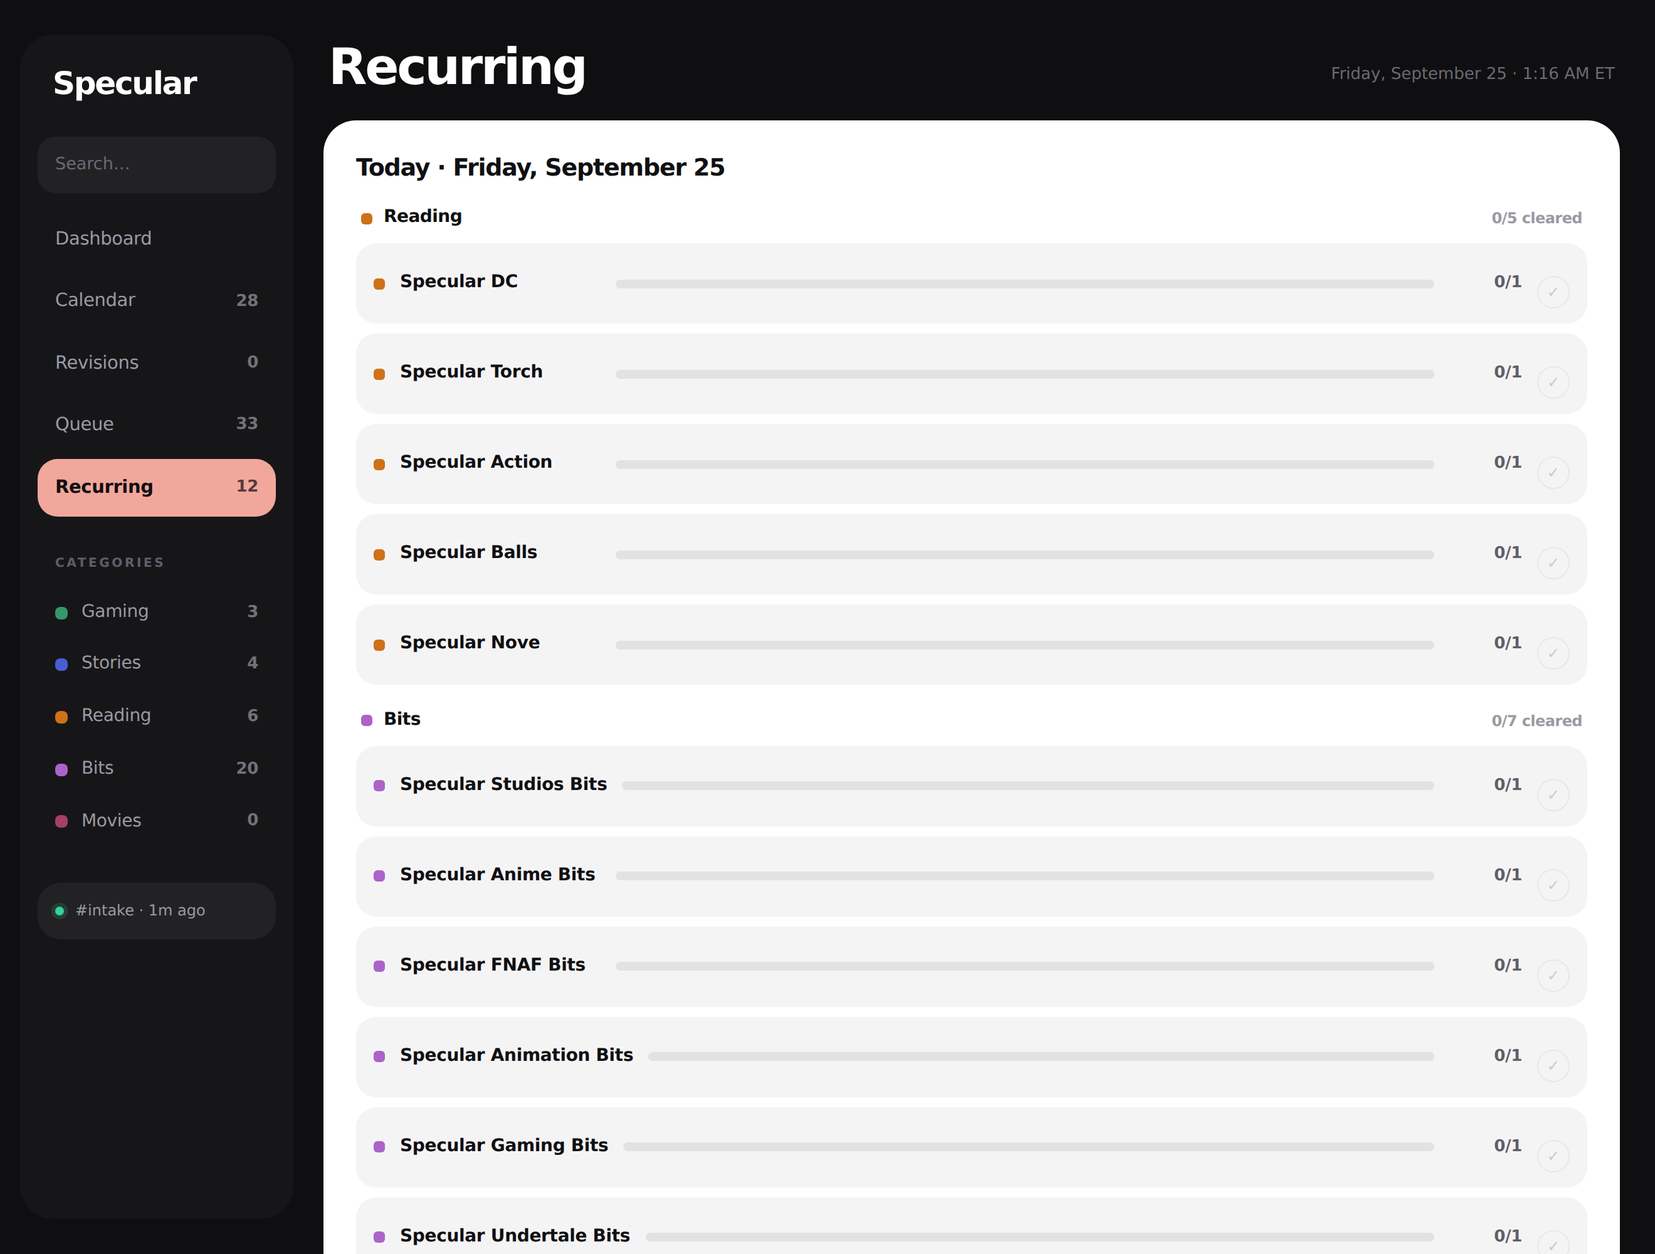
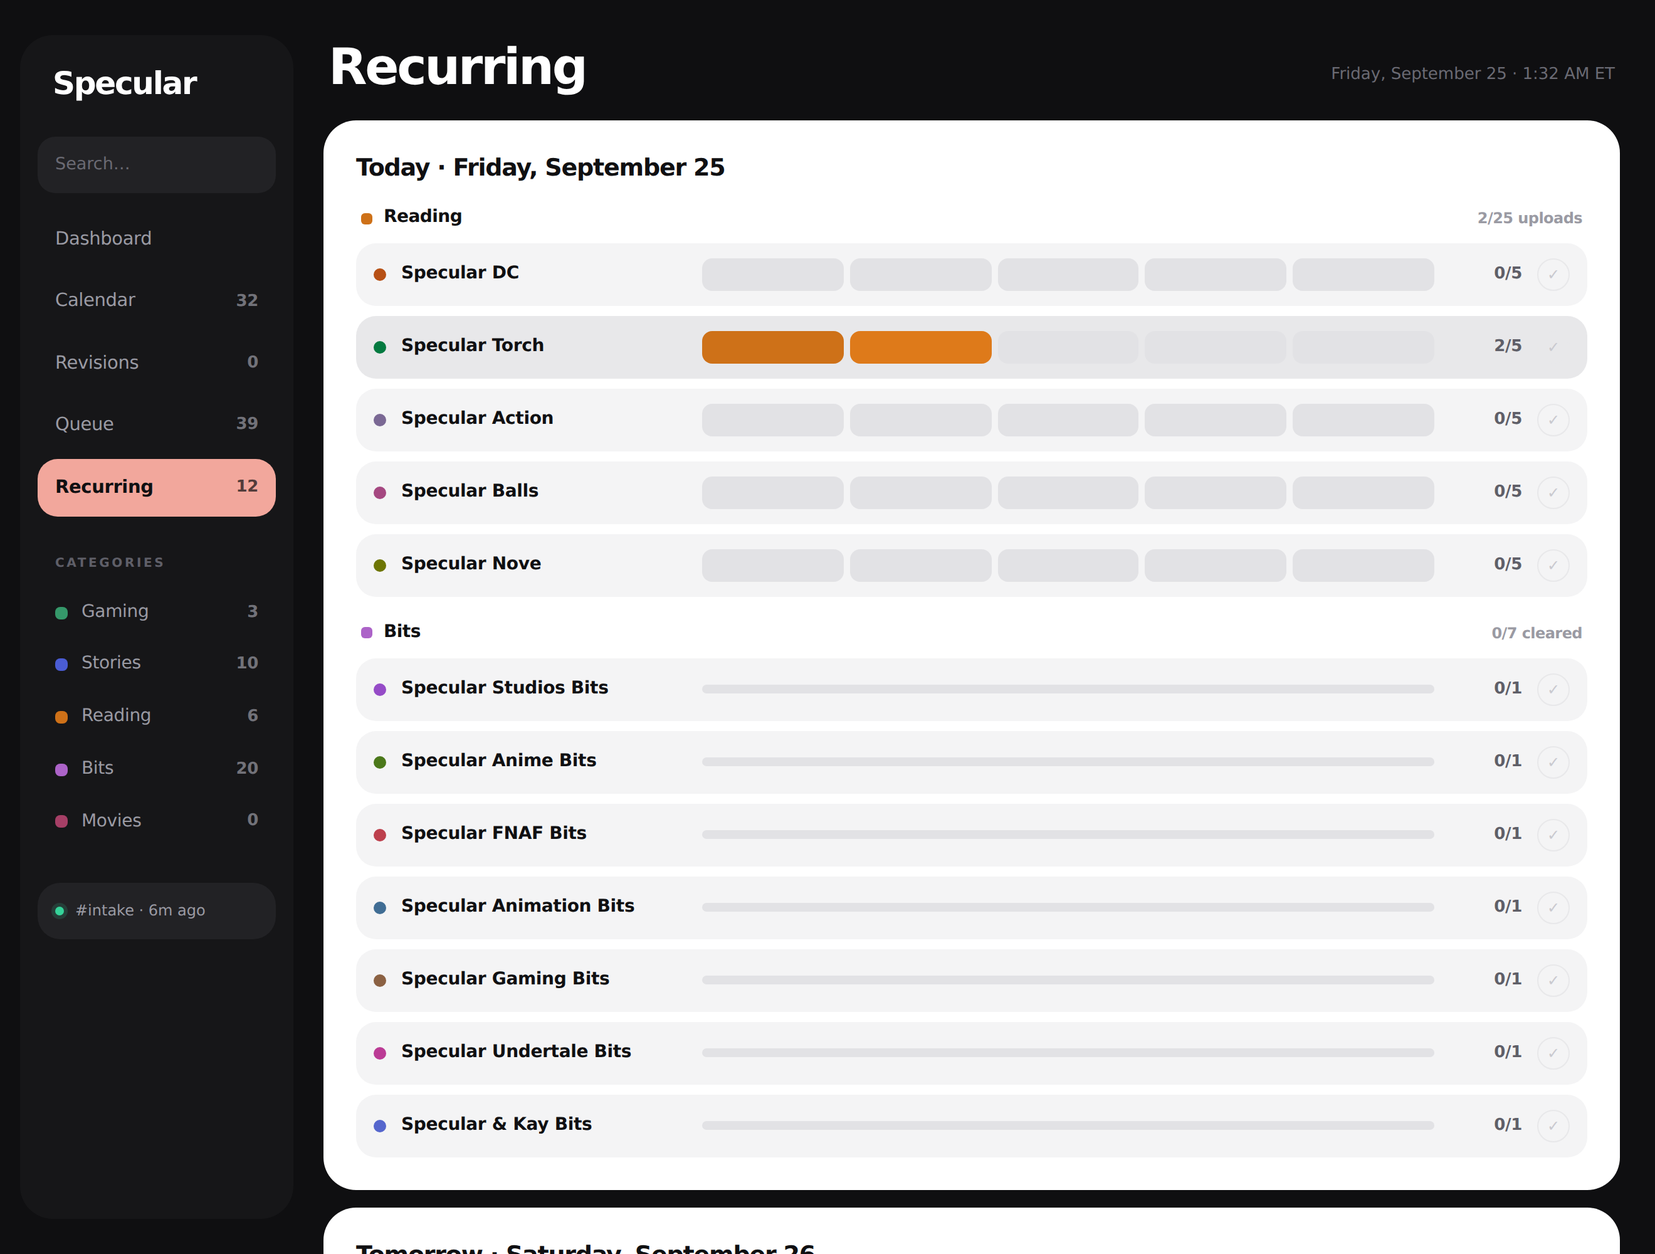
Reading channels count five uploads a day, tapped off one at a time
A reading channel's day is five uploads, not one job. Each keeps a single
batch — the page stays short, which was the point of one batch per channel —
but the batch now holds a target and a count, and its row is five segments
instead of a bar. Tap the third to mark three done; tap the last filled one
again to step back, so a mis-tap is one more tap to undo. Bits stay at one,
with their tick.

Reaching the target clears the batch, and that is what counts toward
"cleared this week": once per channel per day, not once per upload. Dropping
back below reopens it and takes the count back off. Verified in a browser:
3rd → 3/5, 3rd again → 2/5, 5th → cleared (cleared this week 2 → 3), 5th
again → 4/5 (→ 2). The group header, the digest and a batch's row in any list
all count in uploads — "2/25 uploads", "2/5 uploaded".

Clearing a batch by its tick, or a whole channel's day, sets its count to the
target; reopening a cleared one starts its count again rather than leaving it
open at 5/5. A migration gives existing batches their target — five for
reading, one for bits — and marks already-cleared ones full.

Also: buttons inside a Recurring row sat below its centre line because a
general `.panel form` margin reached them, and bars started at different
points because the name column was narrower than the longest channel name.

Claude-Session: https://claude.ai/code/session_01XDwzm3cFSuRZJqUM74mbz3

diff --git a/src/web/page.ts b/src/web/page.ts
@@ -401,7 +401,7 @@ button.clear.secondary:hover { background: var(--line); filter: none; }
   background: var(--sunk); color: var(--ink); font-size: 14px; letter-spacing: -0.012em;
 }
 .batch:hover { background: var(--line); }
-.batch .who { display: flex; align-items: center; gap: 12px; min-width: 180px; }
+.batch .who { display: flex; align-items: center; gap: 12px; min-width: 250px; }
 .batch .tick button { width: 26px; height: 26px; font-size: 12px; }
 .tick-space { width: 26px; flex: none; }
 .batch .dot { width: 10px; height: 10px; border-radius: 50%; background: var(--ch, var(--c)); flex: none; }
@@ -409,6 +409,17 @@ button.clear.secondary:hover { background: var(--line); filter: none; }
 .batch .bar {
   flex: 1; height: 7px; border-radius: 999px; background: #E2E2E5; overflow: hidden; min-width: 60px;
 }
+.pips { flex: 1; display: flex; gap: 5px; min-width: 120px; }
+.pips form { flex: 1; display: flex; }
+.pip {
+  flex: 1; height: 26px; border-radius: 8px; border: 0; cursor: pointer; padding: 0;
+  background: #E2E2E5; transition: background .12s ease;
+}
+.pip:hover { background: #D2D2D7; }
+.pip.on { background: var(--c); }
+.pip.on:hover { filter: brightness(1.08); }
+.batch.done .pip.on { background: var(--gm); }
+.row .meta .count { color: var(--ink2); font-weight: 600; }
 .batch .bar > span { display: block; height: 100%; background: var(--c); border-radius: 999px; }
 .batch .state {
   font-family: var(--display); font-weight: 700; font-size: 13px; color: var(--ink2);
@@ -432,10 +443,12 @@ button.clear.secondary:hover { background: var(--line); filter: none; }
 .batch-head .n { margin-left: auto; font-family: var(--ui); font-weight: 600; font-size: 12px; color: var(--ink3); padding-right: 4px; }
 .hint { color: var(--ink3); font-size: 12.5px; margin: 14px 0 0; max-width: 560px; line-height: 1.6; }
 .panel form { margin-top: 14px; }
+/* ...but not the buttons inside a batch row, which sit on its centre line. */
+.panel .batch form { margin-top: 0; }
 @media (max-width: 760px) {
   .batch { flex-wrap: wrap; gap: 8px 10px; }
   .batch .name { min-width: 0; flex: 1; }
-  .batch .bar { order: 3; flex-basis: 100%; }
+  .batch .bar, .batch .pips { order: 3; flex-basis: 100%; }
 }
 
 /* ── phone ─────────────────────────────────────────────────────────────────
@@ -659,6 +672,9 @@ function row(r: StoredRecord): string {
   if (r.version) meta.push(`v${r.version}`);
   if (r.wordCount) meta.push(`${r.wordCount.toLocaleString()} words`);
   if (r.airDate) meta.push(airs(r));
+  if (r.batchTarget && r.batchTarget > 1) {
+    meta.push(`<span class="count">${r.status === "done" ? r.batchTarget : r.batchDone}/${r.batchTarget} uploaded</span>`);
+  }
   if (r.confidence < 0.7) meta.push(`<span class="warn">needs a look</span>`);
 
   const links = r.links.length
@@ -1445,11 +1461,35 @@ export function renderRecurring(
            </form>`
         : `<span class="tick-space"></span>`;
 
+    // A channel whose day is several uploads gets one segment per upload.
+    // Tapping the third marks three done; tapping the last filled one again
+    // steps back one, so a mis-tap is one more tap to undo.
+    const units = CHANNELS.find((ch) => ch.name === r.channel)?.recurring?.units ?? 1;
+    const progress =
+      units > 1 && date && r.total > 0
+        ? `<span class="pips" role="group" aria-label="${esc(r.channel)} uploads done">${Array.from(
+            { length: r.total },
+            (_, i) => {
+              const n = i + 1;
+              const filled = n <= r.done;
+              const target = n === r.done ? n - 1 : n;
+              return `<form method="post" action="/recurring/progress">
+                <input type="hidden" name="channel" value="${esc(r.channel)}">
+                <input type="hidden" name="date" value="${esc(date)}">
+                <input type="hidden" name="done" value="${target}">
+                <button class="pip${filled ? " on" : ""}"
+                  aria-label="${n === r.done ? `Undo — back to ${n - 1} of ${r.total}` : `${n} of ${r.total} done`}"
+                  title="${n === r.done ? `Back to ${n - 1}` : `${n} of ${r.total} done`}"></button>
+              </form>`;
+            },
+          ).join("")}</span>`
+        : `<span class="bar"><span style="width:${pct}%"></span></span>`;
+
     return `<div class="batch${r.total && r.done === r.total ? " done" : ""}" style="--c:${colourOf(categoryOf(r.channel))};--ch:${channelColour(r.channel)}">
       <a class="who" href="/channel/${encodeURIComponent(r.channel)}">
         <span class="dot"></span><span class="name">${esc(r.channel)}</span>
       </a>
-      <span class="bar"><span style="width:${pct}%"></span></span>
+      ${progress}
       <span class="state">${esc(state)}</span>
       ${clearAll}
     </div>`;
@@ -1469,10 +1509,14 @@ export function renderRecurring(
     CATEGORIES.filter((cat) => list_.some((r) => categoryOf(r.channel) === cat.id))
       .map((cat) => {
         const mine = list_.filter((r) => categoryOf(r.channel) === cat.id);
-        const done = mine.filter((r) => r.total && r.done === r.total).length;
+        const done = mine.reduce((n, r) => n + r.done, 0);
+        const total = mine.reduce((n, r) => n + r.total, 0);
+        const unit = mine.some((r) => (CHANNELS.find((ch) => ch.name === r.channel)?.recurring?.units ?? 1) > 1)
+          ? "uploads"
+          : "cleared";
         return `<div class="batch-group" style="--c:${cat.color}">
           <div class="batch-head"><span class="dot"></span>${esc(cat.label)}
-            <span class="n">${done}/${mine.length} cleared</span></div>
+            <span class="n">${done}/${total} ${unit}</span></div>
           <div class="batches">${mine.map((r) => line(r, date)).join("")}</div>
         </div>`;
       })

diff --git a/src/jobs/batches.ts b/src/jobs/batches.ts
@@ -60,8 +60,8 @@ export async function openBatchesFor(date = dateIn(ORG_TZ)): Promise<OpenResult>
       const { rowCount } = await pool.query(
         `INSERT INTO records (
            kind, category, channel, code, title, air_date, deadline, vo_source,
-           status, parsed_by, confidence, batch_no, source_message_id, raw_content
-         ) VALUES ($8, $9, $1, $2, $3, $4, $5, 'none', 'open', 'recurring', 1, $6, $7, '')
+           status, parsed_by, confidence, batch_no, source_message_id, raw_content, batch_target
+         ) VALUES ($8, $9, $1, $2, $3, $4, $5, 'none', 'open', 'recurring', 1, $6, $7, '', $10)
          ON CONFLICT (source_message_id) DO NOTHING`,
         [
           channel.name,
@@ -74,6 +74,7 @@ export async function openBatchesFor(date = dateIn(ORG_TZ)): Promise<OpenResult>
           // A batch takes its channel's category — Reading batches are Reading.
           channel.category === "bits" ? "bits" : "update",
           channel.category,
+          channel.recurring?.units ?? 1,
         ],
       );
 
@@ -95,16 +96,20 @@ export function tomorrow(): string {
   return d.toISOString().slice(0, 10);
 }
 
-/** What a day's batches currently look like, for the Recurring page. */
+/**
+ * What a day's batches look like, for the Recurring page — counted in uploads,
+ * so a reading channel reads 2/5 and a bits channel 0/1.
+ */
 export async function batchStatus(date: string): Promise<
   Array<{ channel: string; total: number; done: number; removed: number }>
 > {
   // A removed batch leaves the count entirely, so a channel whose only batch
-  // was removed reads "removed" rather than "0/1" waiting to be done.
+  // was removed reads "removed" rather than waiting to be done.
   const { rows } = await pool.query<{ channel: string; total: string; done: string; removed: string }>(
     `SELECT channel,
-            COUNT(*) FILTER (WHERE status <> 'removed') AS total,
-            COUNT(*) FILTER (WHERE status = 'done') AS done,
+            COALESCE(SUM(COALESCE(batch_target, 1)) FILTER (WHERE status <> 'removed'), 0) AS total,
+            COALESCE(SUM(CASE WHEN status = 'done' THEN COALESCE(batch_target, 1)
+                              WHEN status = 'open' THEN batch_done ELSE 0 END), 0) AS done,
             COUNT(*) FILTER (WHERE status = 'removed') AS removed
      FROM records
      WHERE batch_no IS NOT NULL AND air_date = $1
@@ -121,4 +126,25 @@ export async function batchStatus(date: string): Promise<
       removed: Number(row?.removed ?? 0),
     };
   });
+}
+
+/**
+ * Set how many of a channel's uploads are done that day. Reaching the target
+ * clears the batch — which is what counts toward "cleared this week"; dropping
+ * back below it reopens it.
+ */
+export async function setBatchProgress(channel: string, date: string, done: number): Promise<void> {
+  await pool.query(
+    `UPDATE records SET
+       batch_done = LEAST(GREATEST($3, 0), COALESCE(batch_target, 1)),
+       status = CASE WHEN $3 >= COALESCE(batch_target, 1) THEN 'done' ELSE 'open' END,
+       done_at = CASE WHEN $3 >= COALESCE(batch_target, 1) THEN COALESCE(done_at, now()) ELSE NULL END,
+       updated_at = now()
+     WHERE id = (
+       SELECT id FROM records
+       WHERE channel = $1 AND air_date = $2 AND batch_no IS NOT NULL AND status <> 'removed'
+       ORDER BY batch_no LIMIT 1
+     )`,
+    [channel, date, done],
+  );
 }

diff --git a/src/db/records.ts b/src/db/records.ts
@@ -31,6 +31,9 @@ export interface StoredRecord extends DerivedRecord {
   raw: string;
   /** Set on recurring batches only. */
   batchNo: number | null;
+  /** How many uploads the batch holds, and how many are done. */
+  batchTarget: number | null;
+  batchDone: number;
   createdAt: Date;
 }
 
@@ -158,8 +161,15 @@ export async function updateFiling(
 }
 
 export async function setStatus(id: number, status: Status): Promise<void> {
+  // A batch cleared by its tick is all its uploads done; one reopened from
+  // cleared starts its count again rather than sitting at 5/5 but open.
   await pool.query(
     `UPDATE records SET status = $2, done_at = CASE WHEN $2 = 'done' THEN now() END,
+       batch_done = CASE
+         WHEN batch_no IS NULL THEN batch_done
+         WHEN $2 = 'done' THEN COALESCE(batch_target, 1)
+         WHEN $2 = 'open' AND batch_done >= COALESCE(batch_target, 1) THEN 0
+         ELSE batch_done END,
        updated_at = now() WHERE id = $1`,
     [id, status],
   );
@@ -193,6 +203,8 @@ interface Row {
   source_author: string | null;
   raw_content: string;
   batch_no: number | null;
+  batch_target: number | null;
+  batch_done: number | null;
   created_at: Date;
 }
 
@@ -225,6 +237,8 @@ function hydrate(r: Row): StoredRecord {
     sourceAuthor: r.source_author,
     raw: r.raw_content ?? "",
     batchNo: r.batch_no ?? null,
+    batchTarget: r.batch_target ?? null,
+    batchDone: r.batch_done ?? 0,
     createdAt: r.created_at,
   };
 }
@@ -232,7 +246,7 @@ function hydrate(r: Row): StoredRecord {
 const SELECT = `SELECT id, kind, category, channel, code, title, tag, stage,
   air_date, script_due, vo_due, vo_source, deadline, word_count, assignee,
   version, links, brief, note, status, parsed_by, confidence, warnings,
-  source_url, source_author, raw_content, batch_no, created_at FROM records`;
+  source_url, source_author, raw_content, batch_no, batch_target, batch_done, created_at FROM records`;
 
 /** Everything still open, newest first. */
 export async function listOpen(limit = 200): Promise<StoredRecord[]> {
@@ -436,7 +450,8 @@ export async function search(query: string, limit = 60): Promise<StoredRecord[]>
 /** Clear a whole channel's batches for one day — the Recurring page's tick. */
 export async function clearBatches(channel: string, date: string): Promise<number> {
   const { rowCount } = await pool.query(
-    `UPDATE records SET status = 'done', done_at = now(), updated_at = now()
+    `UPDATE records SET status = 'done', done_at = now(), updated_at = now(),
+       batch_done = COALESCE(batch_target, 1)
      WHERE channel = $1 AND air_date = $2 AND batch_no IS NOT NULL AND status = 'open'`,
     [channel, date],
   );
@@ -517,7 +532,7 @@ export async function calendarRange(
     `SELECT ${day} AS day, id, kind, category, channel, code, title, tag, stage,
        air_date, script_due, vo_due, vo_source, deadline, word_count, assignee,
        version, links, brief, note, status, parsed_by, confidence, warnings,
-       source_url, source_author, raw_content, batch_no, created_at
+       source_url, source_author, raw_content, batch_no, batch_target, batch_done, created_at
      FROM records
      WHERE ${day} BETWEEN $1 AND $2 AND status <> 'removed'
      -- Recurring batches sort last within a day: a dozen of them would

diff --git a/src/catalog.ts b/src/catalog.ts
@@ -80,8 +80,12 @@ export interface Channel {
   codePrefix?: string;
   /** Extra strings the parser should treat as naming this channel. */
   aliases?: string[];
-  /** Bits channels open a numbered batch every day. perDay is how many. */
-  recurring?: { perDay: number; opensAt: string; dueAt: string };
+  /**
+   * Channels that open a numbered batch every day. perDay is how many batches;
+   * units is how many uploads one batch holds — a reading channel's day is five
+   * uploads, ticked off one at a time, where a bits batch is a single job.
+   */
+  recurring?: { perDay: number; opensAt: string; dueAt: string; units?: number };
   /**
    * Matched only by its exact name or an alias, never by appearing inside a
    * longer message. The main channel is called just "Specular", which is in
@@ -119,11 +123,11 @@ export const CHANNELS: Channel[] = [
   { id: "documentaries", name: "Specular Documentaries", color: "#0275B3", category: "stories", aliases: ["specular docs"] },
 
   // ── Reading (each opens its day's batch automatically, like bits) ───────
-  { id: "dc", name: "Specular DC", color: "#B75015", category: "reading", codePrefix: "RDC", aliases: ["dc"], recurring: { perDay: 1, opensAt: "06:00", dueAt: "18:00" } },
-  { id: "torch", name: "Specular Torch", color: "#047A40", category: "reading", codePrefix: "RTO", aliases: ["torch"], recurring: { perDay: 1, opensAt: "06:00", dueAt: "18:00" } },
-  { id: "action", name: "Specular Action", color: "#7A6894", category: "reading", codePrefix: "RAC", aliases: ["action"], recurring: { perDay: 1, opensAt: "06:00", dueAt: "18:00" } },
-  { id: "balls", name: "Specular Balls", color: "#A54881", category: "reading", codePrefix: "RBA", aliases: ["balls"], recurring: { perDay: 1, opensAt: "06:00", dueAt: "18:00" } },
-  { id: "nove", name: "Specular Nove", color: "#6D7504", category: "reading", codePrefix: "RNO", aliases: ["nove"], recurring: { perDay: 1, opensAt: "06:00", dueAt: "18:00" } },
+  { id: "dc", name: "Specular DC", color: "#B75015", category: "reading", codePrefix: "RDC", aliases: ["dc"], recurring: { perDay: 1, opensAt: "06:00", dueAt: "18:00", units: 5 } },
+  { id: "torch", name: "Specular Torch", color: "#047A40", category: "reading", codePrefix: "RTO", aliases: ["torch"], recurring: { perDay: 1, opensAt: "06:00", dueAt: "18:00", units: 5 } },
+  { id: "action", name: "Specular Action", color: "#7A6894", category: "reading", codePrefix: "RAC", aliases: ["action"], recurring: { perDay: 1, opensAt: "06:00", dueAt: "18:00", units: 5 } },
+  { id: "balls", name: "Specular Balls", color: "#A54881", category: "reading", codePrefix: "RBA", aliases: ["balls"], recurring: { perDay: 1, opensAt: "06:00", dueAt: "18:00", units: 5 } },
+  { id: "nove", name: "Specular Nove", color: "#6D7504", category: "reading", codePrefix: "RNO", aliases: ["nove"], recurring: { perDay: 1, opensAt: "06:00", dueAt: "18:00", units: 5 } },
 
   // ── Bits (each opens a numbered batch daily) ────────────────────────────
   // Ids are unchanged from before the rename: batch keys are built from them.

diff --git a/src/web/server.ts b/src/web/server.ts
@@ -38,7 +38,7 @@ import {
   instantIn,
   shiftDate,
 } from "../parse/derive.js";
-import { batchStatus, openBatchesFor, tomorrow } from "../jobs/batches.js";
+import { batchStatus, openBatchesFor, setBatchProgress, tomorrow } from "../jobs/batches.js";
 import { COOKIE_NAME, COOKIE_OPTIONS, checkPassword, issueToken, verifyToken } from "./auth.js";
 import { SORTS, type Shell, type SortDir, type SortKey, type SortState } from "./page.js";
 import {
@@ -415,6 +415,20 @@ export async function startWeb(): Promise<void> {
     await moveAir(id, date, voFor(date));
     return reply.redirect(`/r/${id}`);
   });
+
+  // One segment on a reading channel's day: how many of its uploads are done.
+  app.post<{ Body: { channel?: string; date?: string; done?: string } }>(
+    "/recurring/progress",
+    async (request, reply) => {
+      const channel = request.body?.channel;
+      const date = safeDate(request.body?.date);
+      const done = Number(request.body?.done);
+      if (channel && date && Number.isInteger(done) && CHANNELS.some((c) => c.name === channel)) {
+        await setBatchProgress(channel, date, done);
+      }
+      return reply.redirect("/recurring");
+    },
+  );
 
   app.post<{ Body: { channel?: string; date?: string } }>("/recurring/clear", async (request, reply) => {
     const channel = request.body?.channel;

diff --git a/src/jobs/digest.ts b/src/jobs/digest.ts
@@ -67,9 +67,11 @@ export async function buildDigest(date = dateIn(ORG_TZ)): Promise<Digest> {
   });
 
   const batchRows = await listBatchesOn(date);
+  // Counted in uploads, as the Recurring page counts them.
+  const target = (r: StoredRecord) => r.batchTarget ?? 1;
   const batches = {
-    total: batchRows.length,
-    done: batchRows.filter((r) => r.status === "done").length,
+    total: batchRows.reduce((n, r) => n + target(r), 0),
+    done: batchRows.reduce((n, r) => n + (r.status === "done" ? target(r) : r.batchDone), 0),
     late: batchRows.filter(
       (r) => r.status === "open" && r.deadline !== null && r.deadline.getTime() < now,
     ).length,
@@ -126,7 +128,7 @@ export function renderDigestEmbed(d: Digest): EmbedBuilder {
   embed.addFields({
     name: "Recurring",
     value: d.batches.total
-      ? `${d.batches.done}/${d.batches.total} batches cleared${
+      ? `${d.batches.done}/${d.batches.total} done${
           d.batches.late ? ` · **${d.batches.late} past their time**` : ""
         }`
       : "_No batches open yet._",

diff --git a/scripts/test-rules.ts b/scripts/test-rules.ts
@@ -348,6 +348,8 @@ t("late evening ET is still today, not tomorrow in UTC", relativeDay("2026-09-25
 
 t("the five reading channels open daily", CHANNELS.filter((c) => c.category === "reading").every((c) => c.recurring?.perDay === 1), true);
 t("twelve recurring channels in all", CHANNELS.filter((c) => c.recurring).length, 12);
+t("a reading channel's day is five uploads", CHANNELS.filter((c) => c.category === "reading").map((c) => c.recurring?.units), [5, 5, 5, 5, 5]);
+t("a bits batch is a single job", CHANNELS.filter((c) => c.category === "bits").every((c) => (c.recurring?.units ?? 1) === 1), true);
 
 // ── channel colours ───────────────────────────────────────────────────────
 section("channel colours");

diff --git a/BOARD.md b/BOARD.md
@@ -91,6 +91,13 @@ all.
 
 The tick beside a channel clears its whole day in one press.
 
+**Reading channels count uploads.** A reading channel's day is five uploads,
+so its row is five segments rather than one bar. Tap the third to mark three
+done; tap the last filled one again to step back one. At 5/5 the channel is
+cleared and counts once toward "cleared this week"; dropping back to 4/5
+reopens it. The group header totals the uploads — "7/25 uploads". Change the
+five with `units` on the channel in `src/catalog.ts`.
+
 **Working ahead** is the button on that page. It opens tomorrow's batches now,
 so you can clear them today. Tomorrow morning's run finds them already there
 and leaves them exactly as you left them, cleared ones included — the opener
